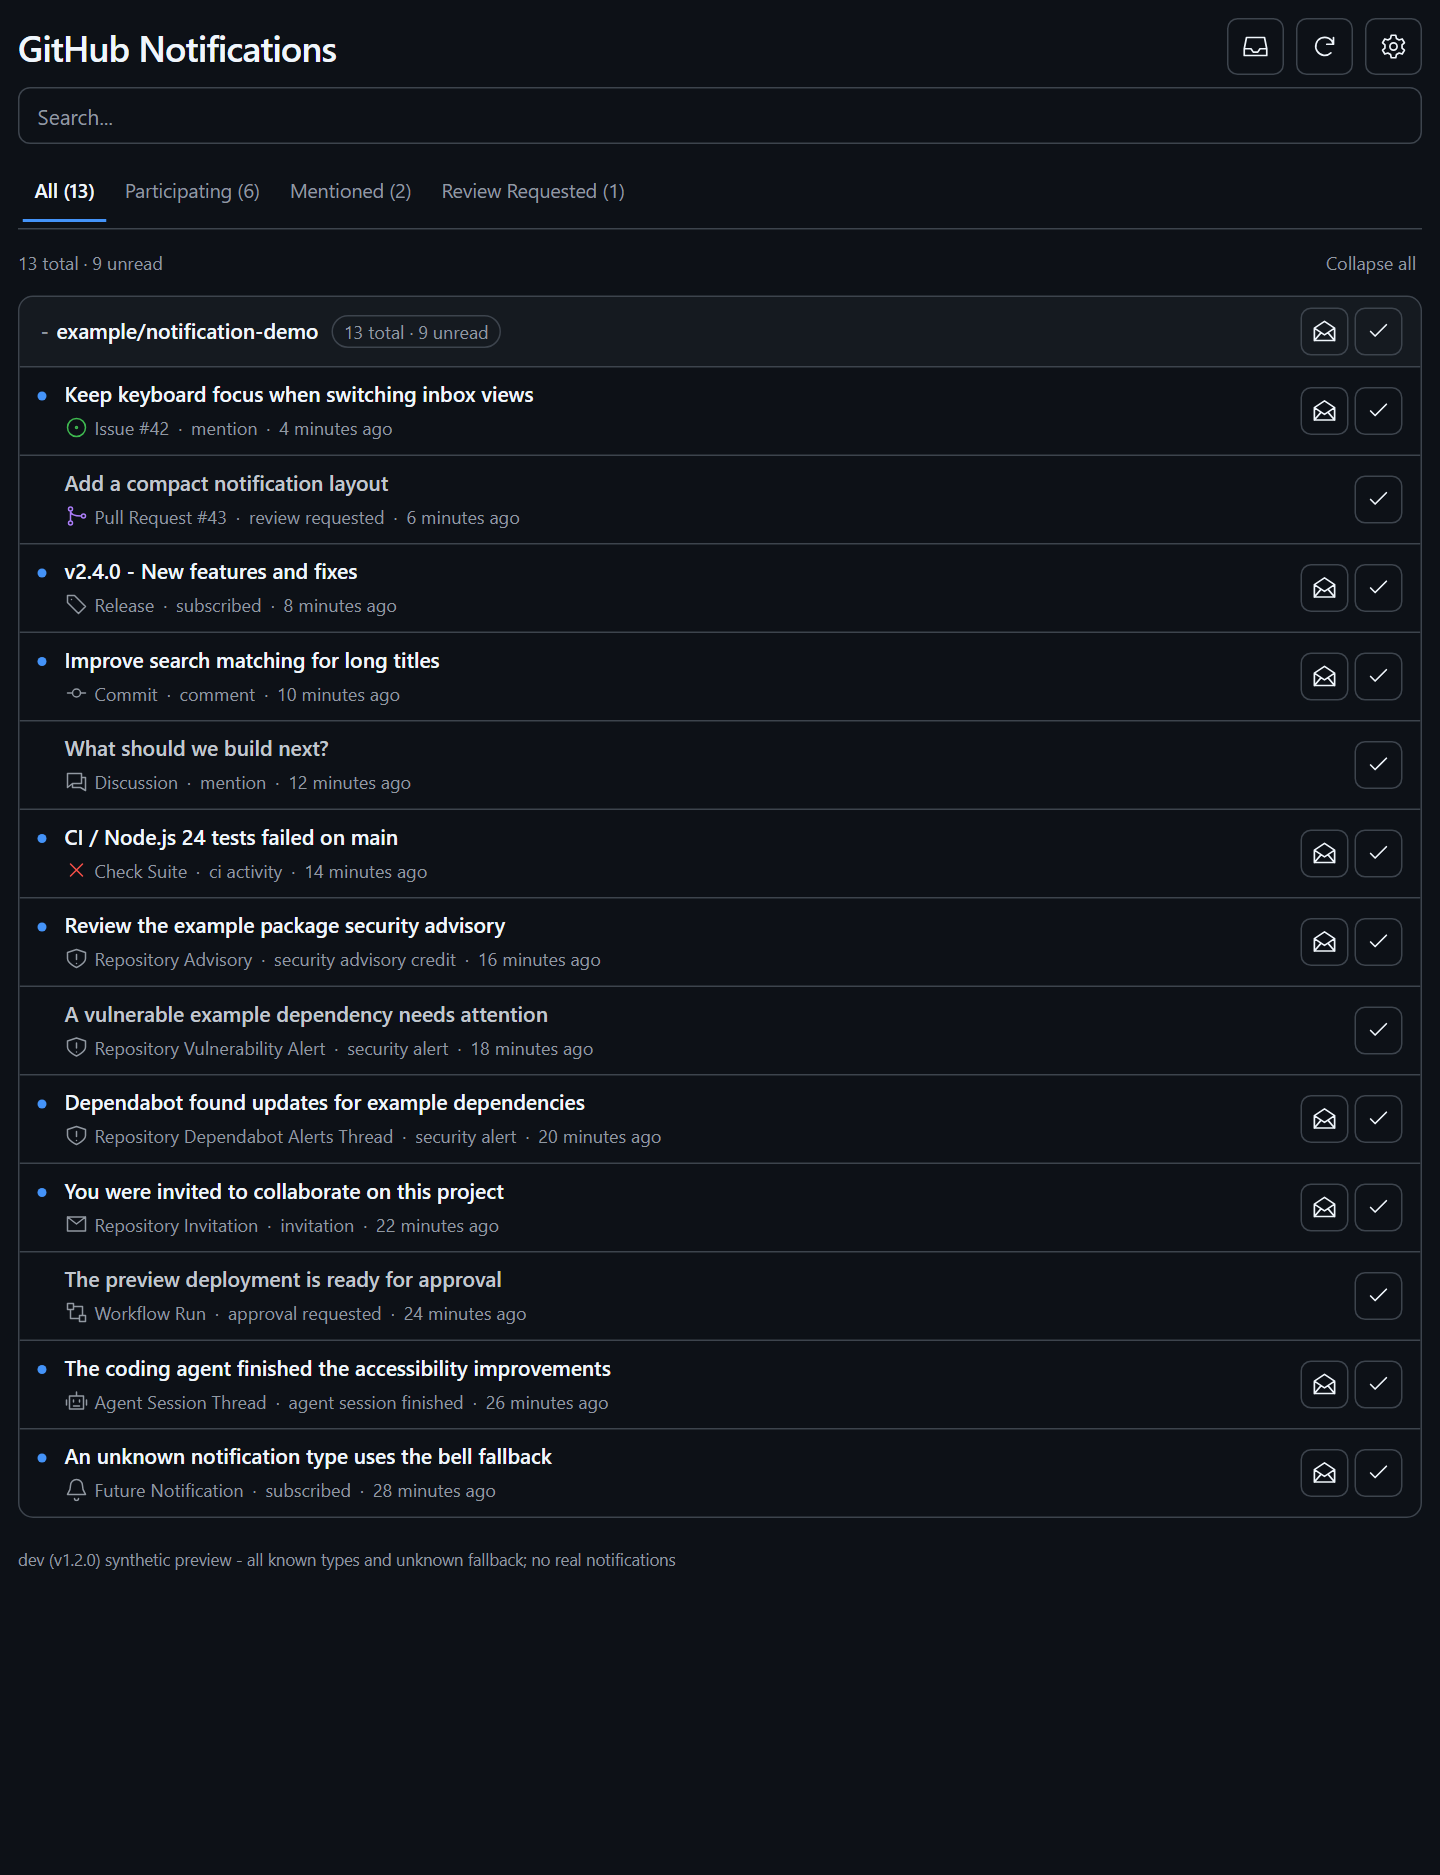
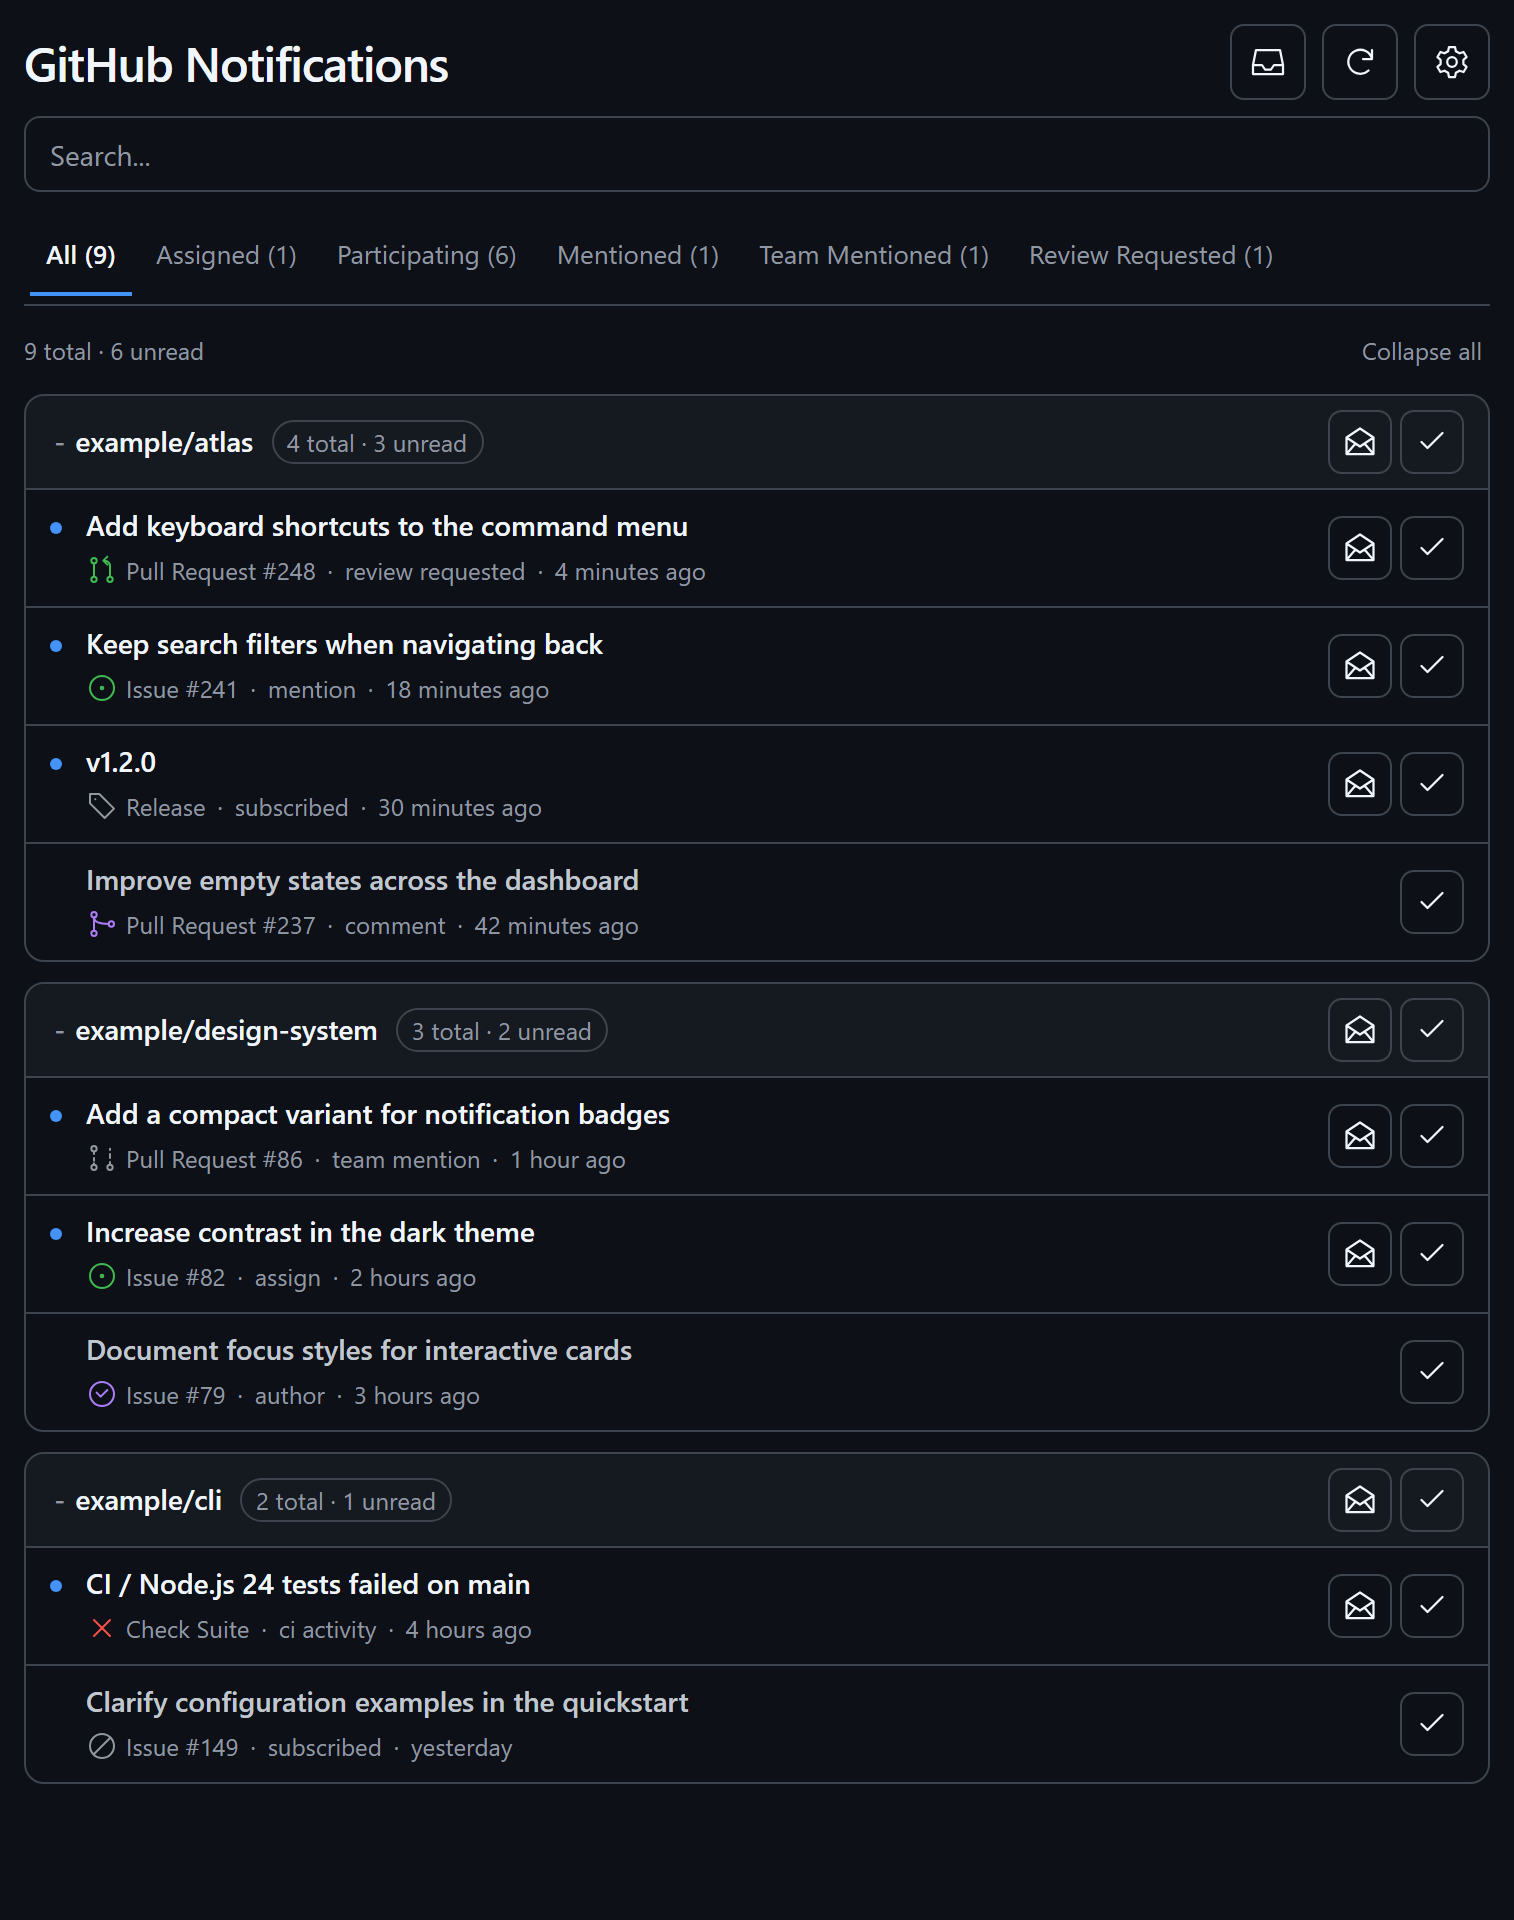
Keep README preview focused with one release example

diff --git a/README.md b/README.md
@@ -12,7 +12,7 @@ showing read and unread inbox items; choose **Unread only** to narrow the view. 
 stay hidden in both views. Search, mark rows
 or groups as read or done, and opt into desktop notifications or auto-open.
 
-![GitHub Notifications canvas with a compact toolbar, search and attention tabs above thirteen synthetic notifications, nine unread, showing every supported type and an unknown-type bell, a failed check run, clean row metadata and read/done controls](docs/images/github-notifications.png)
+![GitHub Notifications canvas with a compact title toolbar, full-width search, and attention tabs above nine synthetic notifications, six unread, across three example repositories with pull request status icons, a release tag, a failed check run, and read/done controls](docs/images/github-notifications.png)
 
 ## Prerequisites
 
